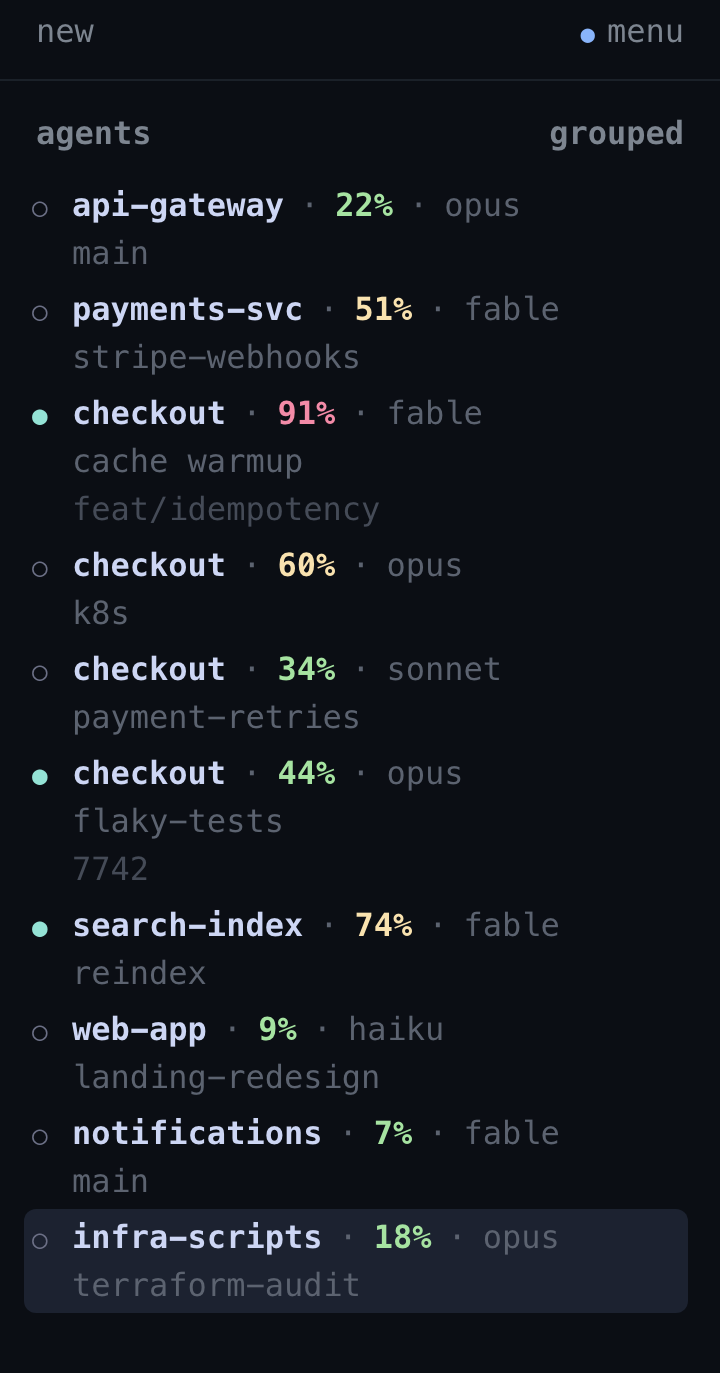
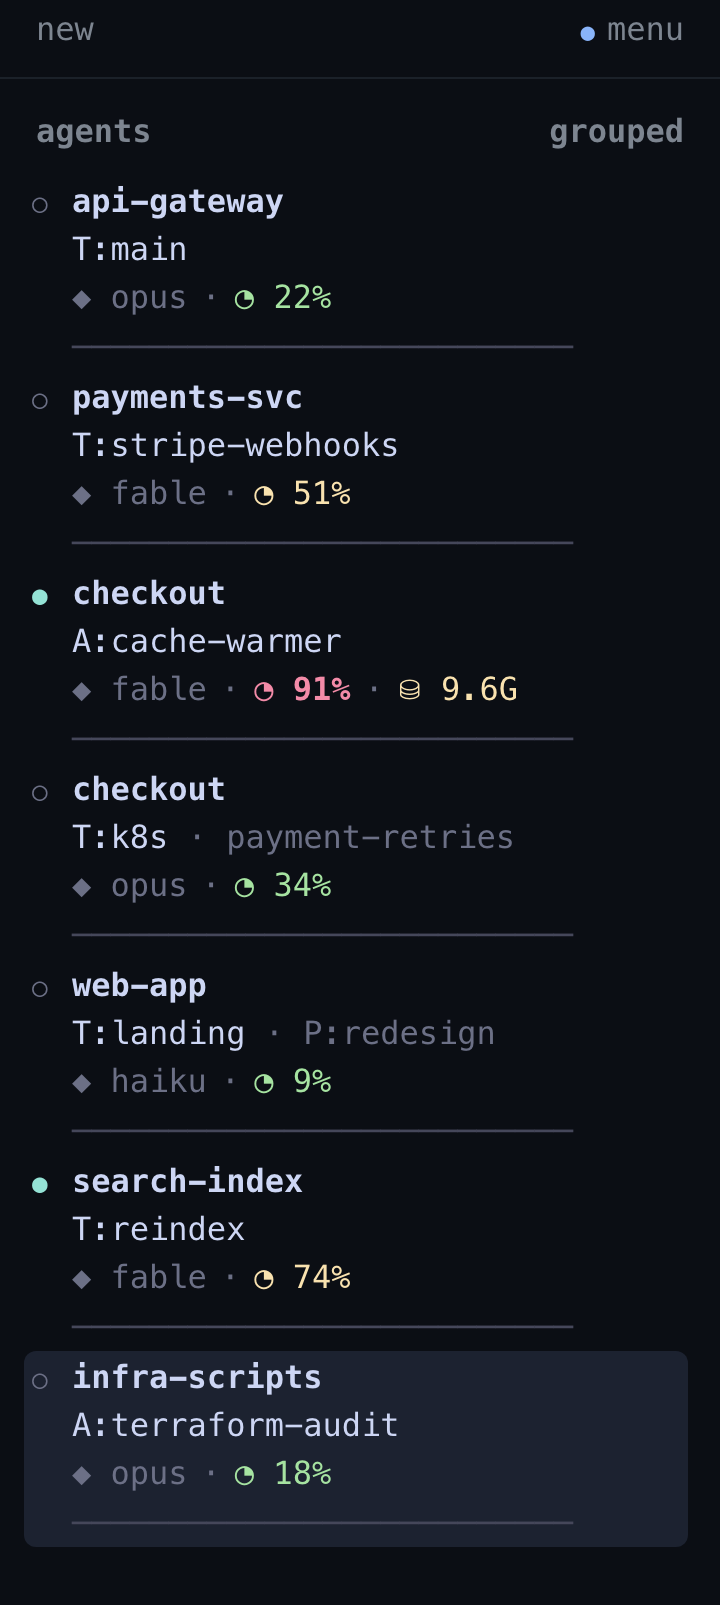
docs: refresh demo screenshot + README, add CHANGELOG
- regenerate assets/sidebar.png to the current design (T:/P:/A: prefixes,
  model · ctx · disk metadata line with icons, disk only when heavy,
  between-entry separator)
- README feature bullets updated (prefixes, disk, icons/separator)
- add CHANGELOG.md for 0.1.0

Claude-Session: https://claude.ai/code/session_015JHDgLCcjjzxkFGaFanwtY

diff --git a/CHANGELOG.md b/CHANGELOG.md
@@ -1,0 +1,29 @@
+# Changelog
+
+All notable changes to this project are documented here. The format follows
+[Keep a Changelog](https://keepachangelog.com/), and the project aims to follow
+[Semantic Versioning](https://semver.org/).
+
+## [0.1.0] — 2026-09-16
+
+First release. Annotates every Claude Code row in the herdr Agents sidebar.
+
+### Added
+
+- **Distinguishing name** per pane via the identity ladder (workspace → tab →
+  agent/pane), with a whole-fleet collision splitter (branch → directory → pane
+  id) and a thin-row hint, so no two rows read alike.
+- **Type prefixes** `T:` tab · `P:` pane · `A:` agent; an agent `/rename`
+  (Claude Code `customTitle`) shows as `A:<name>` and wins over a pane rename.
+- **Model** short form and a color-coded **context %** (green → amber → red),
+  with a 1M-context auto-promotion heuristic and per-model overrides.
+- **Disk footprint** (`$disk`) — a human-readable size shown only above a
+  threshold, measuring the worktree (default), the transcript, or the project
+  dir; the worktree walk is TTL-cached, parallel, timeout-bounded, and runs off
+  the sweep's critical path so fast tokens never wait on it.
+- **Configurable icons** per metadata field and a between-entry **separator**
+  line; light/dark theming via the config recipe.
+- `doctor` action for transcript-mapping and hook diagnostics; `sweep` action to
+  refresh all rows.
+
+[0.1.0]: https://github.com/rchougule/herdr-agents-info/releases/tag/v0.1.0

diff --git a/README.md b/README.md
@@ -13,12 +13,15 @@ five identical `dashboard sl…` rows.
   <img src="assets/sidebar.png" width="330" alt="The Agents sidebar with a distinguishing name, model, and context % on every Claude row">
 </p>
 
-For each Claude pane it pushes display-only tokens:
+At a glance, per Claude pane:
 
-- a **contextual name** — the git branch, directory, or pane name that tells two
-  same-workspace panes apart;
-- the **model** (`opus` / `fable` / `sonnet` / …);
-- a color-coded **context %** — green under 50, amber 50–79, red at 80+.
+- a **distinguishing name** — the git branch, directory, pane, or `/rename` title that tells
+  two same-workspace panes apart, tagged `T:` tab · `P:` pane · `A:` agent;
+- the **model** (`opus` / `fable` / `sonnet` / …) and a color-coded **context %**
+  (green → amber → red as it fills);
+- a **disk footprint** that shows up only when a session has grown heavy (throwaway
+  worktrees with their own `node_modules`), so you know which one to clean up;
+- optional per-field **icons** and a between-entry **separator** — all configurable.
 
 Values come from each session's transcript (cached per pane between events). herdr itself is
 never modified, there is no daemon, and non-Claude panes keep herdr's default layout.
